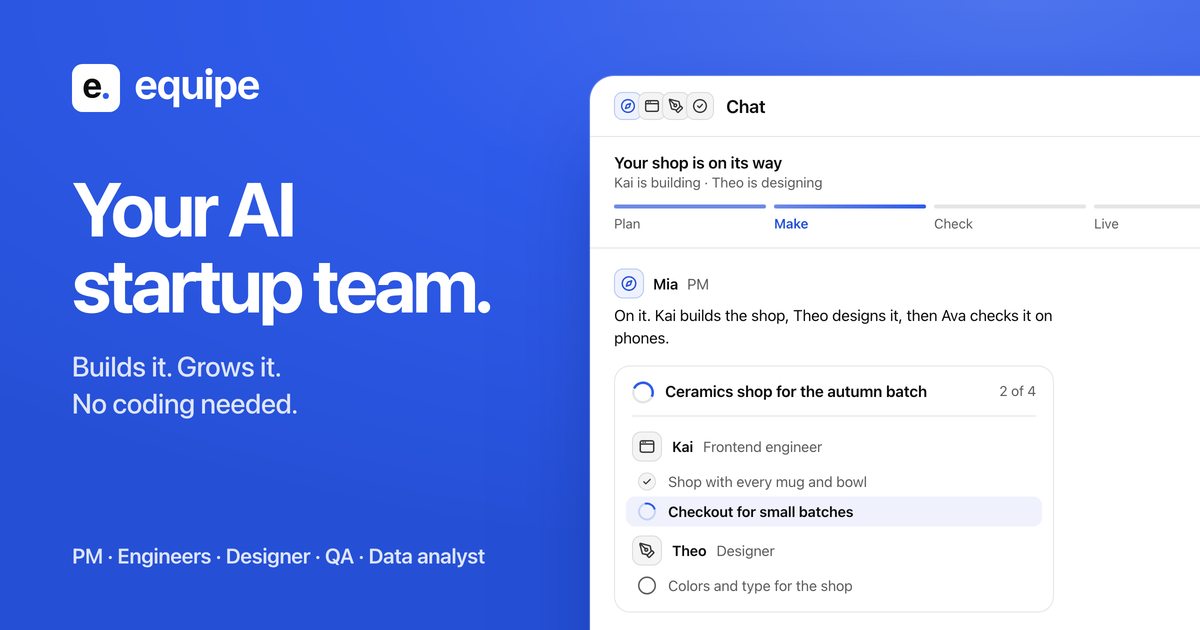
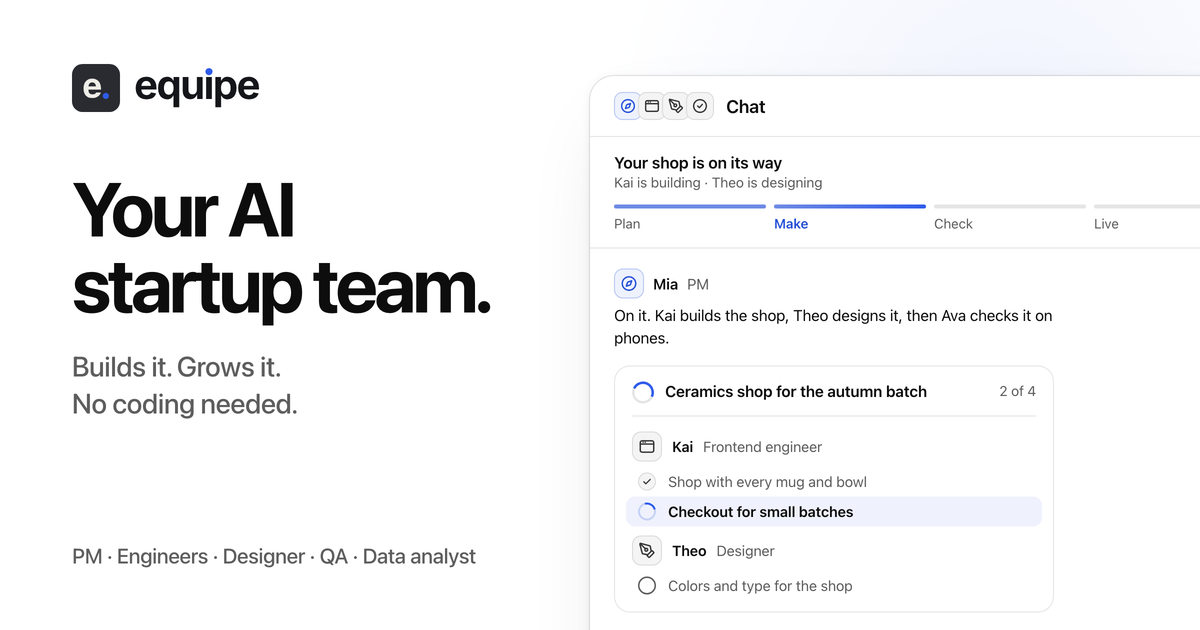
Social images mostly white, equipe blue as the accent only
The owner found the blue versions too blue. Every social image now uses one light look (scripts/og-shared.mjs, the
web app's tokens): white with a very soft glow, the charcoal mark and dark wordmark with the blue dot, near-black
text, and one small blue accent (the article's category chip, the PM mark). THEME=dark draws the charcoal version for
previews. Home and /pricing and /blog move to /og/v4/, articles to /og/blog/v3/, so link previews fetch the new ones.

diff --git a/src/data/site.ts b/src/data/site.ts
@@ -28,8 +28,8 @@ export const SITE = {
   architecture: 'https://github.com/equipe-labs/equipe/blob/main/docs/ARCHITECTURE.md',
   supportEmail: 'support@equipe.im',
   issues: 'https://github.com/equipe-labs/equipe/issues',
-  /** Fallback social image (English); each language page uses /og/v3/<slug>.png (scripts/og-home.mjs). */
-  ogImage: '/og/v3/en.png',
+  /** Fallback social image (English); each language page uses /og/v4/<slug>.png (scripts/og-home.mjs). */
+  ogImage: '/og/v4/en.png',
   themeColor: '#F6F5F1',
   themeColorDark: '#17181C',
 };

diff --git a/docs/i18n.md b/docs/i18n.md
@@ -75,7 +75,7 @@ Notes:
   ("영어 그대로 보기"). `ui.bannerAlso` is the small line in the page's own language;
   its `{language}` is the suggested language's own name ("This page is also available in 한국어.").
 - Follow `design/i18n/glossary.md` (terms, tone, SEO keywords per language) if it is present on your branch.
-- Each language has its own social image, `/og/v3/<slug>.png` (English: `/og/v3/en.png`), generated by `node scripts/og-home.mjs` (its words are in the `WORDS` table; keep `meta.ogImageAlt` saying the same); `/og.png` is kept as a copy of the English one. /pricing and /blog have their own, `/og/v2/pricing-<slug>.png` and `/og/v2/blog-<slug>.png`, from `node scripts/og.mjs`. Bump a folder (v3 → v4) when its look changes, so social sites fetch the new picture.
+- Each language has its own social image, `/og/v4/<slug>.png` (English: `/og/v4/en.png`), generated by `node scripts/og-home.mjs` (its words are in the `WORDS` table; keep `meta.ogImageAlt` saying the same); `/og.png` is kept as a copy of the English one. /pricing and /blog have their own, `/og/v4/pricing-<slug>.png` and `/og/v4/blog-<slug>.png`, from `node scripts/og.mjs`; each article has `/og/blog/v3/<lang>-<slug>.png` from `node scripts/og-blog.mjs`. All share one look (`scripts/og-shared.mjs`): mostly white, equipe blue only as a small accent. Bump a folder (v4 → v5) when its look changes, so social sites fetch the new picture.
 
 ## What the build generates for each language
 
